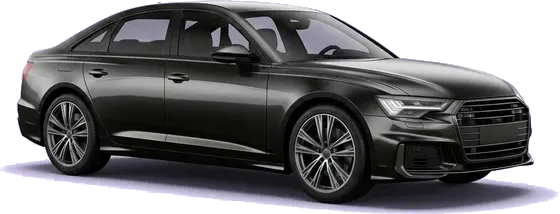
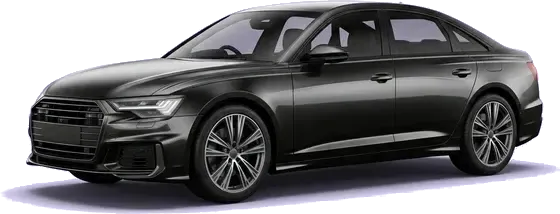
feat(buy-cars): show all body types, face luxury car left, and increase car image size

diff --git a/frontend/src/components/buy/MobileBudgetAndBodySection.jsx b/frontend/src/components/buy/MobileBudgetAndBodySection.jsx
@@ -44,7 +44,16 @@ const BUDGET_OPTIONS = [
   },
 ];
 
-const BODY_TYPES = ['All', 'Hatchback', 'Sedan', 'SUV', 'MUV'];
+const BODY_TYPES = [
+  'All',
+  'Hatchback',
+  'Sedan',
+  'SUV',
+  'Compact SUV',
+  'MUV',
+  'Luxury Sedan',
+  'Luxury SUV'
+];
 
 const MobileBudgetAndBodySection = ({ filters = {}, setFilters, allCars = [] }) => {
   // Real dynamic count calculations with fallback to default UI numbers
@@ -102,7 +111,7 @@ const MobileBudgetAndBodySection = ({ filters = {}, setFilters, allCars = [] }) 
       return !filters.body_type || filters.body_type.length === 0;
     }
     return filters.body_type?.some(
-      (b) => b.toLowerCase() === type.toLowerCase() || (type === 'SUV' && b.toLowerCase().includes('suv'))
+      (b) => b.toLowerCase().trim() === type.toLowerCase().trim()
     );
   };
 
@@ -115,12 +124,12 @@ const MobileBudgetAndBodySection = ({ filters = {}, setFilters, allCars = [] }) 
     setFilters((prev) => {
       const current = prev.body_type || [];
       const isAlreadySelected = current.some(
-        (b) => b.toLowerCase() === type.toLowerCase() || (type === 'SUV' && b.toLowerCase().includes('suv'))
+        (b) => b.toLowerCase().trim() === type.toLowerCase().trim()
       );
 
       if (isAlreadySelected) {
         const updated = current.filter(
-          (b) => b.toLowerCase() !== type.toLowerCase() && !(type === 'SUV' && b.toLowerCase().includes('suv'))
+          (b) => b.toLowerCase().trim() !== type.toLowerCase().trim()
         );
         return { ...prev, body_type: updated };
       } else {
@@ -145,14 +154,14 @@ const MobileBudgetAndBodySection = ({ filters = {}, setFilters, allCars = [] }) 
               key={opt.id}
               onClick={() => handleBudgetClick(opt)}
               type="button"
-              className={`p-3 pt-3 pb-1 flex flex-col justify-between h-[132px] rounded-2xl relative overflow-hidden text-left transition-all cursor-pointer w-full min-w-0 ${
+              className={`p-3 pt-3 pb-1 flex flex-col justify-between h-[140px] sm:h-[148px] rounded-2xl relative overflow-hidden text-left transition-all cursor-pointer w-full min-w-0 ${
                 active
                   ? 'bg-gradient-to-b from-[#E6FAF7] to-[#D0F4EF] ring-2 ring-[#00C9AF] border border-[#00C9AF] shadow-md'
                   : 'bg-gradient-to-b from-[#F0F5FA] to-[#E5EDF6] border border-slate-200/80 hover:border-[#00C9AF]/40 hover:shadow-xs active:scale-[0.98]'
               }`}
             >
               {/* Header info */}
-              <div className="flex items-start justify-between w-full min-w-0">
+              <div className="flex items-start justify-between w-full min-w-0 z-10 relative">
                 <div className="min-w-0 pr-1">
                   <div className="text-[13.5px] sm:text-[14px] font-extrabold text-[#0C1B33] leading-tight truncate">
                     {opt.label}
@@ -169,11 +178,11 @@ const MobileBudgetAndBodySection = ({ filters = {}, setFilters, allCars = [] }) 
               </div>
 
               {/* Large Car 3D Graphic */}
-              <div className="w-full flex justify-end items-end -mb-1 -mr-1">
+              <div className="w-full flex justify-end items-end relative -mb-1 -mr-1 h-[82px] sm:h-[90px]">
                 <img
                   src={opt.img}
                   alt={opt.label}
-                  className="h-[72px] sm:h-[78px] w-auto max-w-[92%] object-contain filter drop-shadow-[0_6px_10px_rgba(12,27,51,0.12)] pointer-events-none"
+                  className="h-full w-auto max-w-[98%] object-contain filter drop-shadow-[0_8px_14px_rgba(12,27,51,0.14)] pointer-events-none"
                   loading="lazy"
                 />
               </div>
@@ -199,8 +208,8 @@ const MobileBudgetAndBodySection = ({ filters = {}, setFilters, allCars = [] }) 
         </h3>
 
         {/* Horizontal scroll without breaking viewport width */}
-        <div className="w-full max-w-full overflow-x-auto pb-1 scrollbar-none">
-          <div className="flex items-center gap-2 w-max min-w-full">
+        <div className="w-full max-w-full overflow-x-auto pb-1.5 scrollbar-none overscroll-x-contain -mx-1 px-1">
+          <div className="flex items-center gap-2 w-max pr-3">
             {BODY_TYPES.map((bt) => {
               const active = isBodyTypeActive(bt);
               return (
